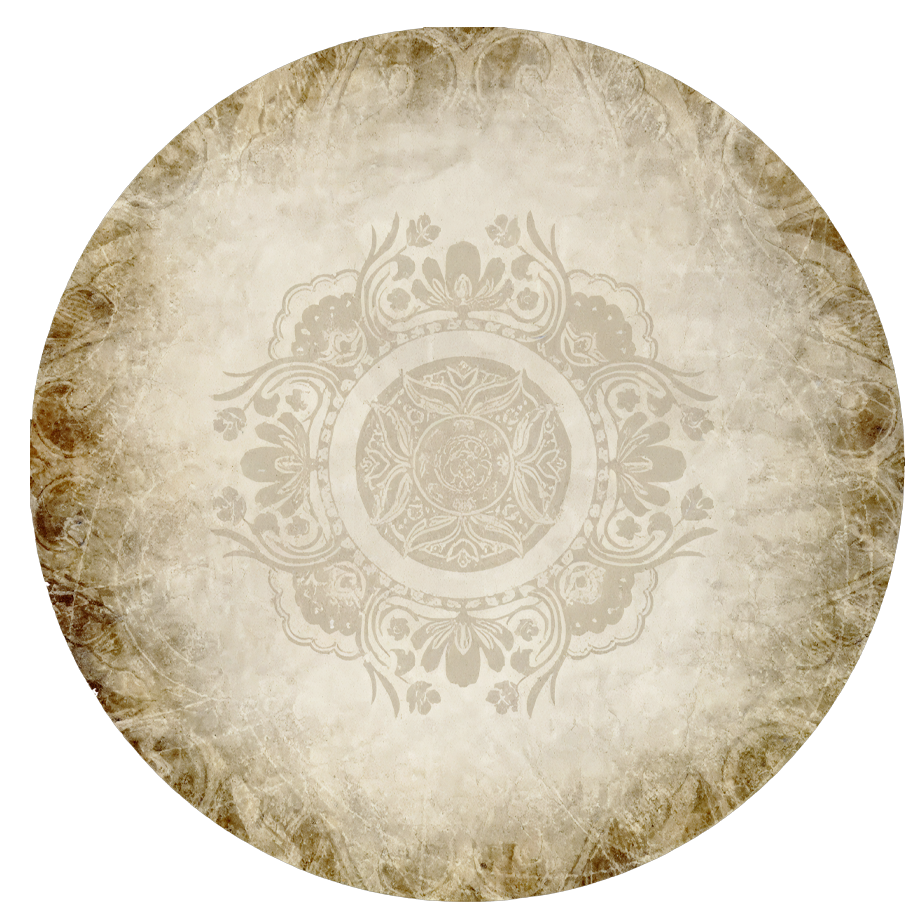
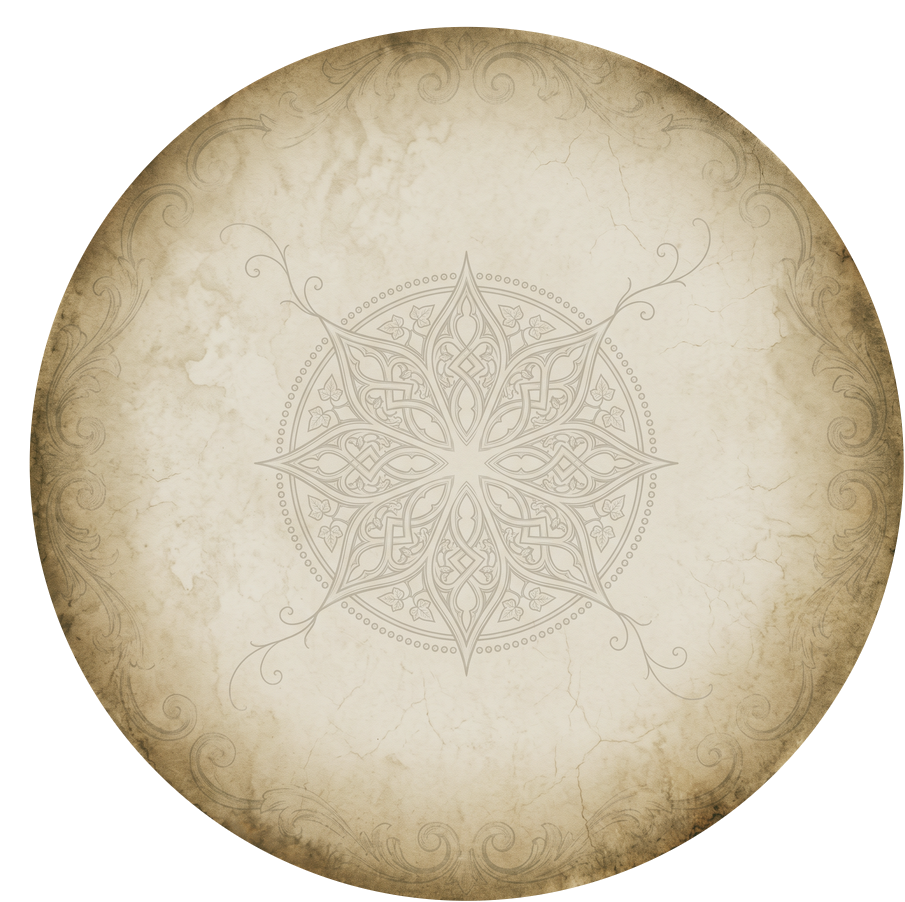
Token Tool: the wiki's own token background in place of the official one
A new parchment background made with OpenArt in the official style: aged
paper, a sepia rim with scrollwork, and a faint medallion of its own. It
is drawn to the exact circle the toolkit already uses and tone-matched to
the old file, so text, leaves and uploads land where they did. Manifest
version bumped so cached toolkits pick it up.

Claude-Session: https://claude.ai/code/session_013EhxSeV1i3VecNSe2Ff2bV

diff --git a/assets/tokens/deco.py b/assets/tokens/deco.py
@@ -82,9 +82,10 @@ import numpy as _np
 _DCX, _DCY, _R = 467, 464, 437
 
 def _true_circle(im, cx=466.2, cy=463.34, r=437.0):
-    """The token background as an exact circle. frame_bare.png is a hair off
-    round, with a flat patch on its left edge that read as a nub on every
-    printed token. Its own centre and radius (fitted to its edge, in pixel
+    """The token background as an exact circle. The old official
+    frame_bare.png was a hair off round, with a flat patch on its left edge
+    that read as a nub on every printed token; the wiki's own file is drawn
+    to this exact circle, so a replacement must keep it. Its own centre and radius (fitted to its edge, in pixel
     coordinates) set the circle; the edge is anti-aliased, and the few pixels
     inside it that the art left see-through take their colour from just
     inside, so nothing dark shows at the rim."""

diff --git a/CLAUDE.md b/CLAUDE.md
@@ -5133,9 +5133,17 @@ keeps `content-visibility: auto`.
    are placed by the token's centre (`GEN_ANCHOR_X`), not by the leaves'
    extent, so an odd count does not slide sideways. 13+ draws 12; the old
    loose fallback fan bunched into a clump that poked out of the token. And
-   `_true_circle()` trims `frame_bare.png` to an exact circle on load — the
-   file has a flat patch on its left edge that printed as a nub on every
-   token.
+   `_true_circle()` trims `frame_bare.png` to an exact circle on load (the
+   old official file had a flat patch on its left edge that printed as a nub
+   on every token).
+   **`frame_bare.png` is the wiki's own background, not the official one**
+   (2026-10, the owner's call): made with OpenArt in the official style
+   (aged parchment, sepia rim, a faint tone-on-tone medallion of its own),
+   fitted to the same circle `_true_circle()` uses (centre 466.2, 463.34,
+   radius 437 on a 905×902 canvas) and tone-matched to the old file, so
+   text, leaves and the "Upload background" option all land as before. A
+   replacement must keep that circle, or `gen.py` (which uses the file raw)
+   and `deco.py` disagree about where the token is.
    The stock **first-night sprig** is redrawn on load too (`_stand_out()`):
    stronger colour and a 0.5px dark ink line, because its olive and orange
    vanished into the brown rim, and grown by `FN_GROW` (1.2) from the rim,
